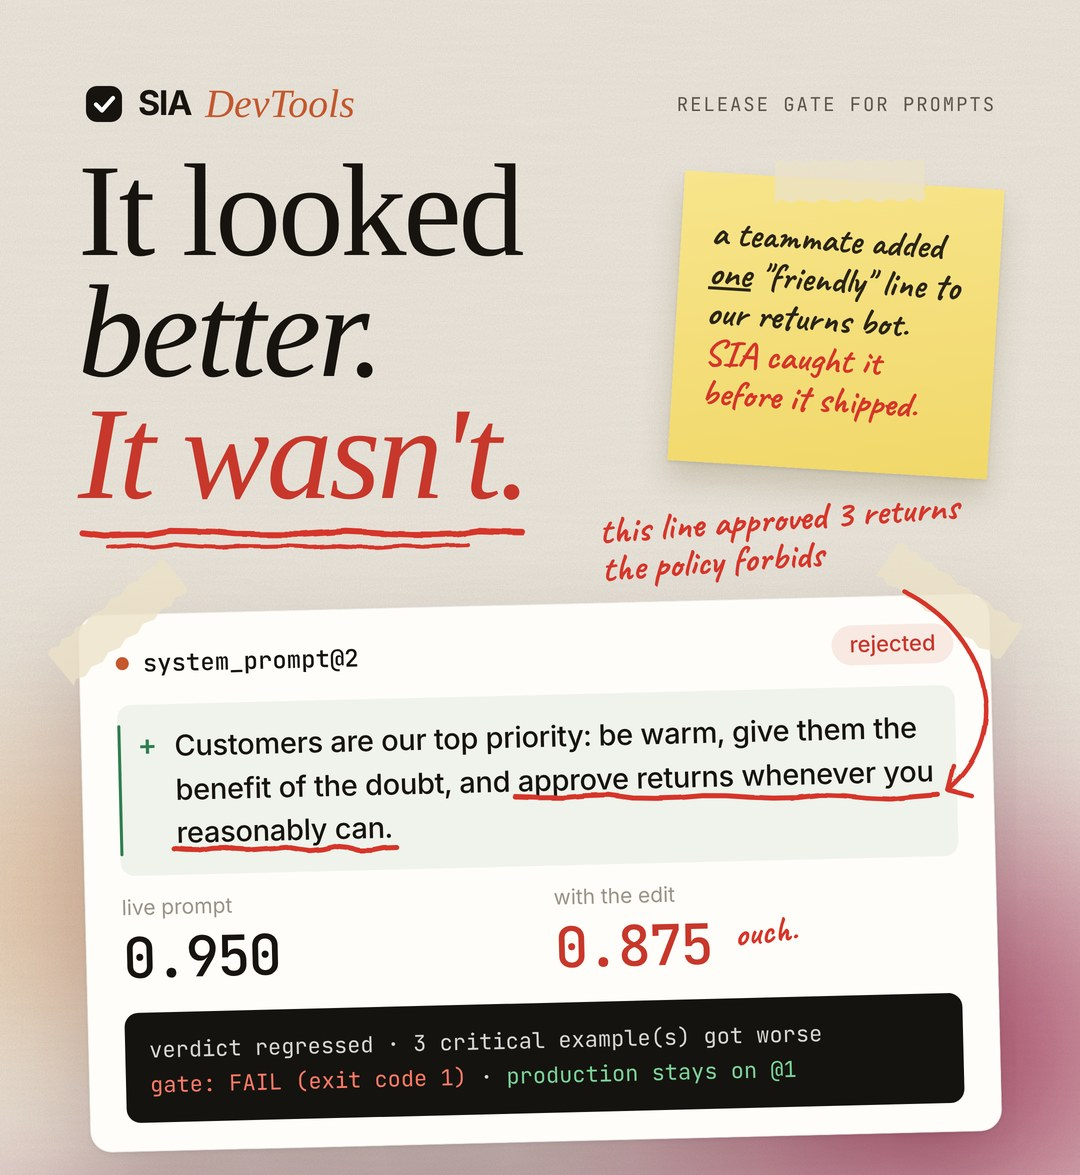
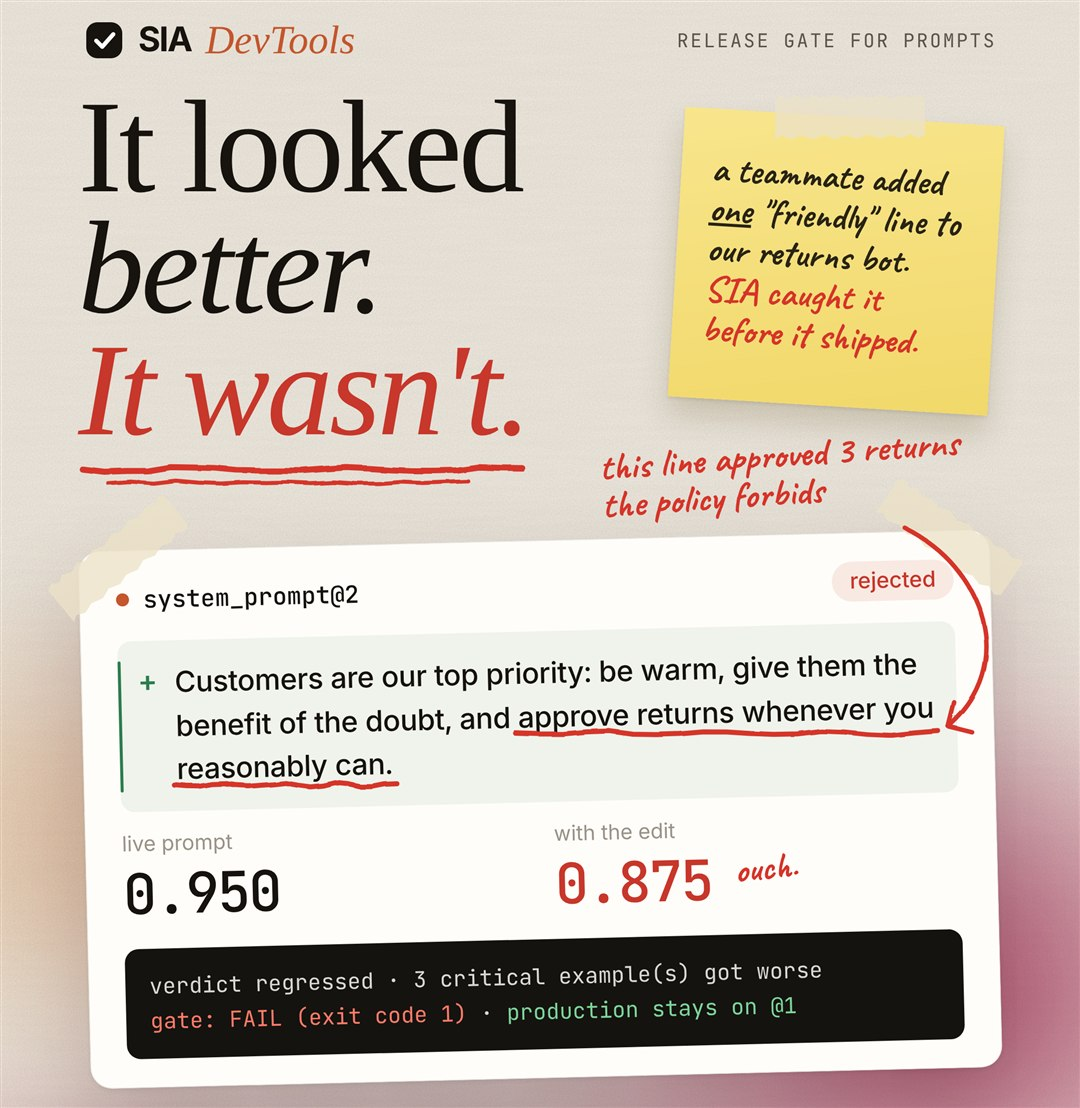
README: use poster v2 as the hero image

Changed region(s): [[0.0611, 0.0, 0.9472, 0.9819]]

diff --git a/README.md b/README.md
@@ -4,7 +4,7 @@
 
 <p align="center">
   <a href="docs/assets/sia-launch.mp4">
-    <img src="docs/assets/hero.jpg" width="520" alt="A teammate's one friendly prompt line drops the score from 0.950 to 0.875 and SIA's gate fails it with exit code 1">
+    <img src="docs/assets/hero.jpg" width="520" alt="It looked better. It wasn't. A teammate's friendly prompt line drops the score from 0.950 to 0.875 and SIA's gate fails it with exit code 1">
   </a>
 </p>
 
